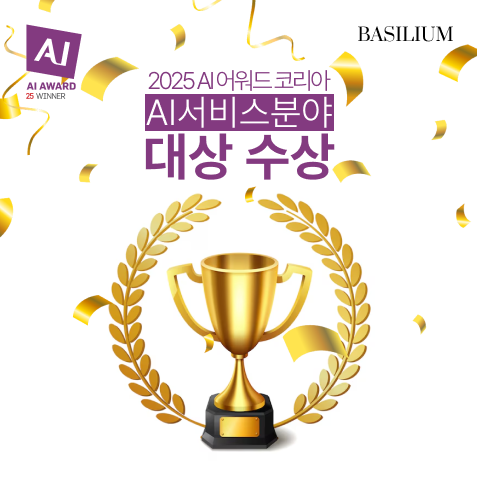
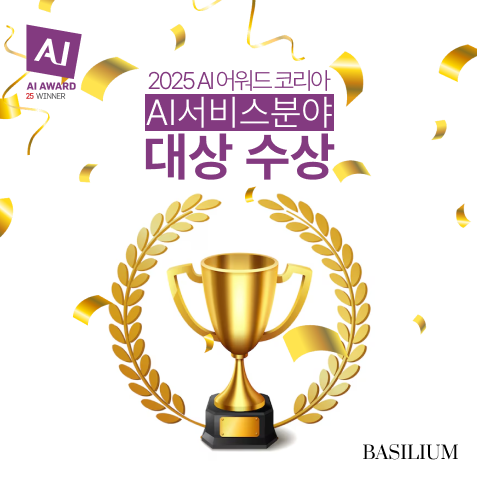
refactor: 수상 팝업 변경(창->모달)

Changed region(s): [[0.7631, 0.8878, 0.9686, 0.949], [0.7338, 0.0306, 0.9686, 0.0918]]

diff --git a/virtualFittingApp/src/pages/main/ui/MainPage.tsx b/virtualFittingApp/src/pages/main/ui/MainPage.tsx
@@ -17,6 +17,7 @@ import { TransparentHeader } from "@/widgets/header";
 import { BREAKPOINTS } from "@/shared/constants";
 import awardAiImage from "@/assets/awards/award-ai.png";
 import awardWebImage from "@/assets/awards/award-web.png";
+import AwardModal from "@/widgets/main/ui/AwardModal";
 
 gsap.registerPlugin(ScrollTrigger);
 
@@ -26,54 +27,27 @@ function MainPage() {
   const cursorRef = useRef<HTMLDivElement>(null);
   const virtualFittingRef = useRef<HTMLDivElement>(null);
   const [isMobile, setIsMobile] = useState(false);
+  const [isAiModalOpen, setIsAiModalOpen] = useState(false);
+  const [isWebModalOpen, setIsWebModalOpen] = useState(false);
 
   useEffect(() => {
-    const openAwardPopup = (imageSrc: string, name: string) => {
-      const width = 477;
-      const height = 490;
-      const left = (window.screen.width / 2) - (width / 2);
-      const top = (window.screen.height / 2) - (height / 2);
-      const features = `width=${width},height=${height},left=${left},top=${top},resizable=yes,scrollbars=yes,status=yes`;
-      
-      const popupWindow = window.open('', name, features);
-      if (popupWindow) {
-        popupWindow.document.write(`
-          <html>
-          <head>
-            <title>${name}</title>
-            <style>
-              body { margin: 0; display: flex; justify-content: center; align-items: center; height: 100vh; background-color: #f0f0f0; }
-              img { max-width: 100%; max-height: 100%; object-fit: contain; }
-            </style>
-          </head>
-          <body>
-            <img src="${imageSrc}" alt="${name}" />
-          </body>
-          </html>
-        `);
-        popupWindow.document.close(); 
-        return popupWindow;
-      }
-      return null;
-    };
-
-    let aiPopup: Window | null = null;
-    let webPopup: Window | null = null;
-
-    aiPopup = openAwardPopup(awardAiImage, '2025 AI어워드코리아 AI서비스분야 대상');
-
     const timer = setTimeout(() => {
-      if (aiPopup && !aiPopup.closed) {
-      }
-      webPopup = openAwardPopup(awardWebImage, '2025 웹어워드코리아 IT솔루션분야 대상');
-    }, 3000); 
+      setIsAiModalOpen(true);
+    }, 1000);
 
-    return () => {
-      clearTimeout(timer);
-      if (aiPopup && !aiPopup.closed) aiPopup.close();
-      if (webPopup && !webPopup.closed) webPopup.close();
-    };
-  }, []); 
+    return () => clearTimeout(timer);
+  }, []);
+
+  const handleCloseAiModal = () => {
+    setIsAiModalOpen(false);
+    setTimeout(() => {
+      setIsWebModalOpen(true);
+    }, 500);
+  };
+
+  const handleCloseWebModal = () => {
+    setIsWebModalOpen(false);
+  };
 
   useEffect(() => {
     const checkMobile = () => {
@@ -132,6 +106,18 @@ function MainPage() {
       ref={lenisRef}
       root
     >
+      <AwardModal
+        isOpen={isAiModalOpen}
+        onClose={handleCloseAiModal}
+        imageSrc={awardAiImage}
+        title="2025 AI어워드코리아 AI서비스분야 대상"
+      />
+      <AwardModal
+        isOpen={isWebModalOpen}
+        onClose={handleCloseWebModal}
+        imageSrc={awardWebImage}
+        title="2025 웹어워드코리아 IT솔루션분야 대상"
+      />
       <TooltipGlobalStyles />
       {!isMobile && <GlobalCursorStyle />}
       <TransparentHeader />

diff --git a/virtualFittingApp/src/widgets/main/ui/AwardModal.tsx b/virtualFittingApp/src/widgets/main/ui/AwardModal.tsx
@@ -1,0 +1,65 @@
+
+import React from 'react';
+import styled from 'styled-components';
+
+interface AwardModalProps {
+  isOpen: boolean;
+  onClose: () => void;
+  imageSrc: string;
+  title: string;
+}
+
+const AwardModal: React.FC<AwardModalProps> = ({ isOpen, onClose, imageSrc, title }) => {
+  if (!isOpen) return null;
+
+  return (
+    <Overlay onClick={onClose}>
+      <ModalContainer onClick={(e) => e.stopPropagation()}>
+        <CloseButton onClick={onClose}>&times;</CloseButton>
+        <Image src={imageSrc} alt={title} />
+      </ModalContainer>
+    </Overlay>
+  );
+};
+
+export default AwardModal;
+
+const Overlay = styled.div`
+  position: fixed;
+  top: 0;
+  left: 0;
+  right: 0;
+  bottom: 0;
+  background-color: rgba(0, 0, 0, 0.7);
+  display: flex;
+  justify-content: center;
+  align-items: center;
+  z-index: 9999;
+`;
+
+const ModalContainer = styled.div`
+  background-color: white;
+  padding: 10px;
+  border-radius: 8px;
+  position: relative;
+  max-width: calc(100% - 40px);
+  max-height: calc(100% - 40px);
+`;
+
+const CloseButton = styled.button`
+  position: absolute;
+  top: 10px;
+  right: 20px;
+  background: none;
+  border: none;
+  font-size: 24px;
+  cursor: pointer;
+  z-index: 1001;
+`;
+
+const Image = styled.img`
+  display: block;
+  max-width: 100%;
+  max-height: 80vh;
+  height: auto;
+`;

diff --git a/virtualFittingApp/src/widgets/main/index.ts b/virtualFittingApp/src/widgets/main/index.ts
@@ -2,9 +2,9 @@ export * from "./ui/AboutSection";
 export * from "./ui/CommerceTextSection";
 export * from "./ui/HeroSection";
 export * from "./ui/ServiceTextSection";
-export * from "./ui/ServiceTextSection";
 export * from "./ui/AITextSection";
 export * from "./ui/PaperSection";
 export * from "./ui/ImageFitSection";
 export * from "./ui/SolutionSection";
 export * from "./ui/VirtualFittingSection";
+export { default as AwardModal } from './ui/AwardModal';
